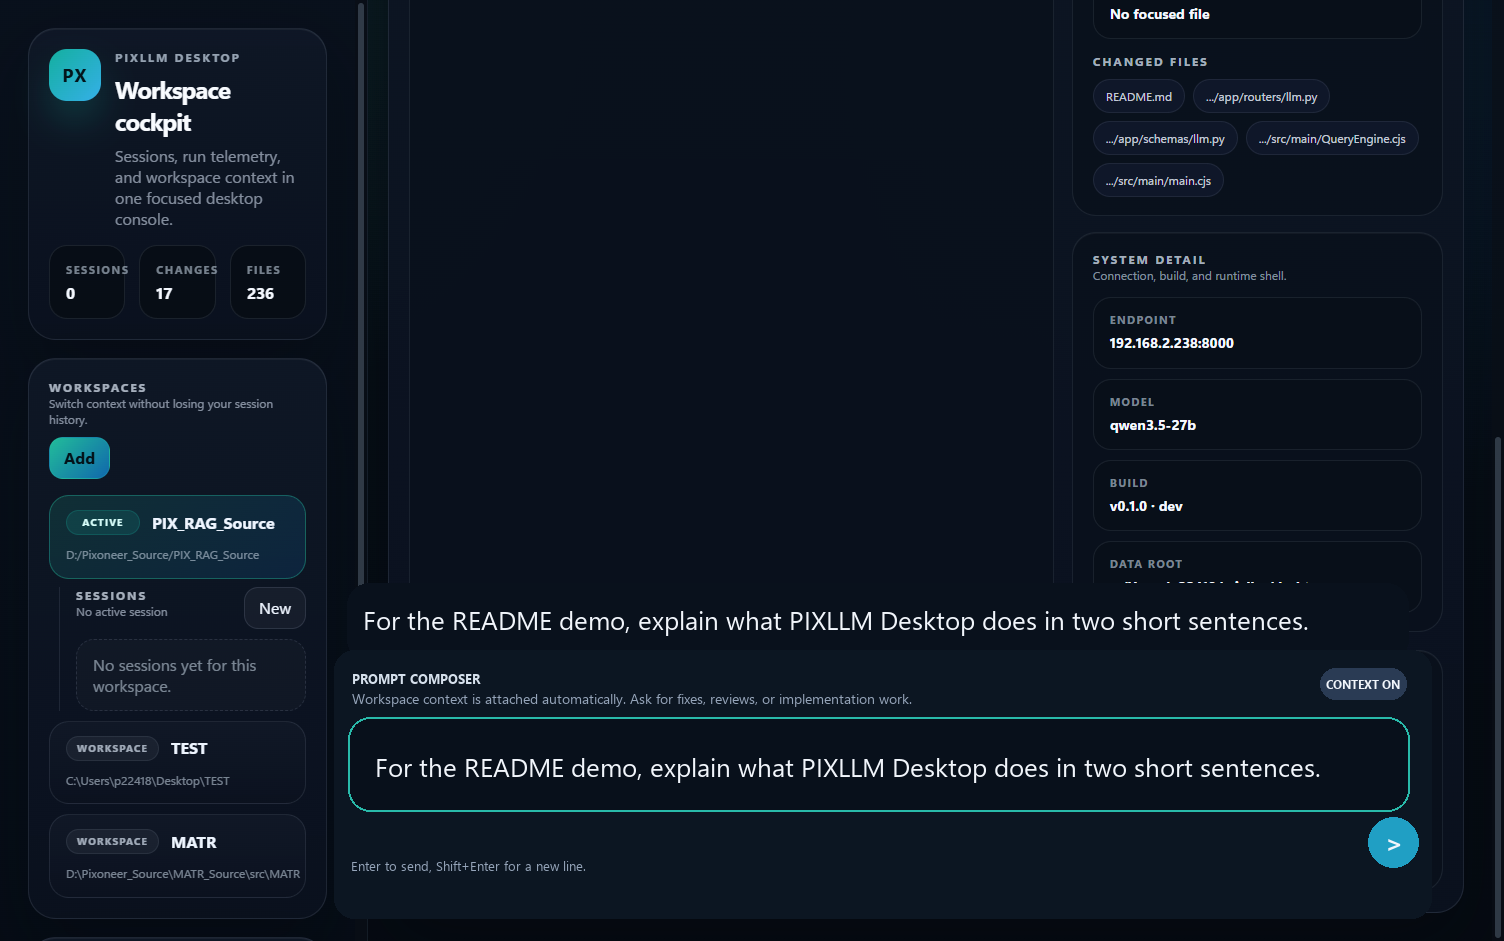
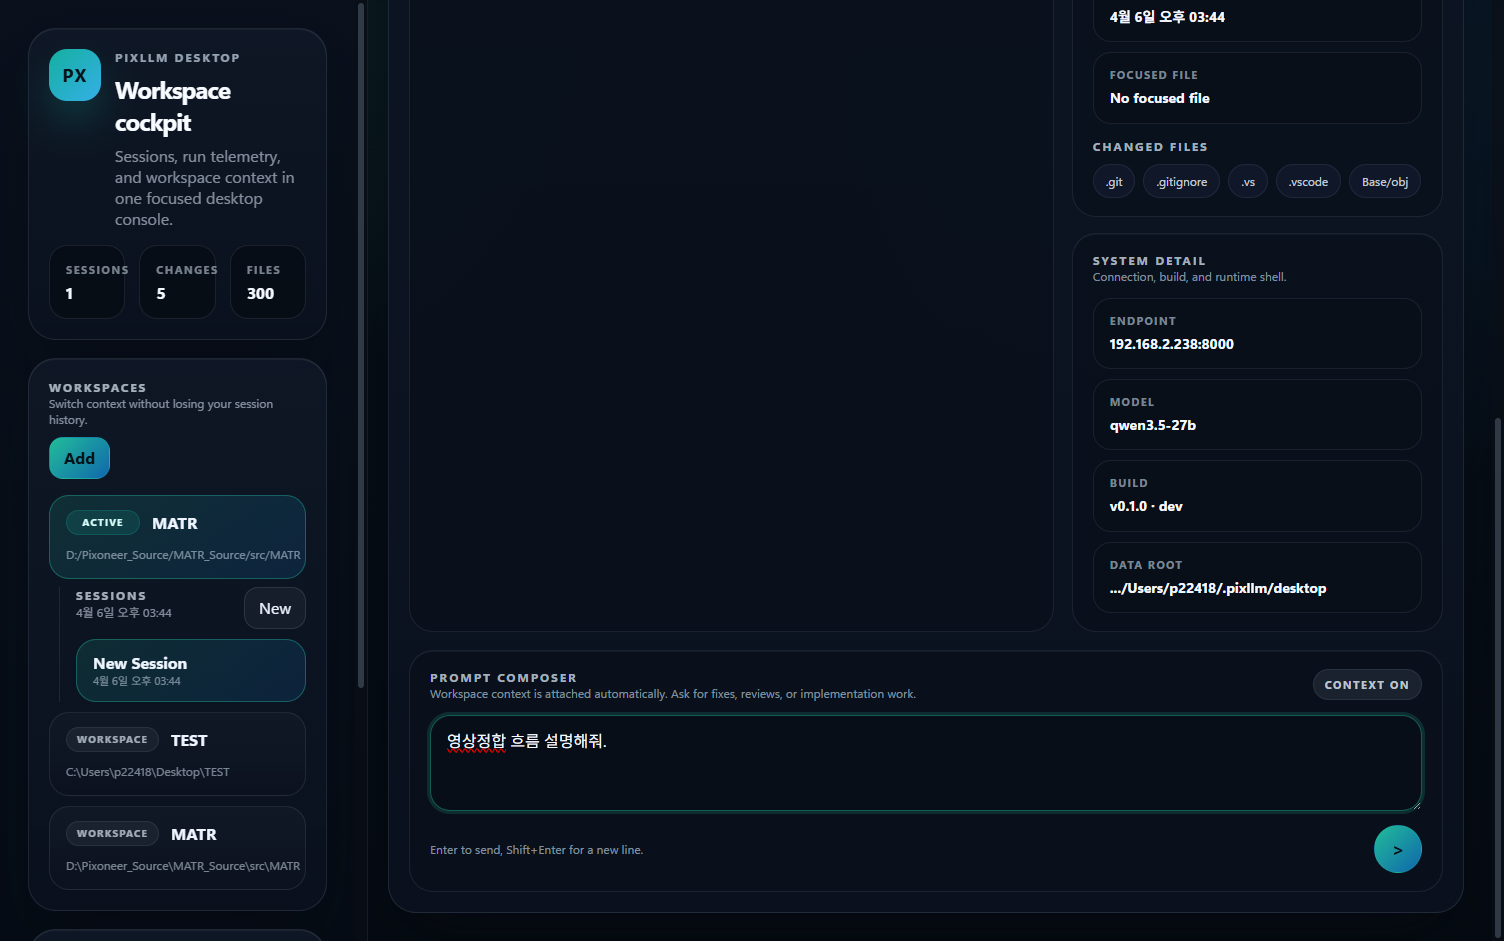
Replace README screenshots with real MATR run

diff --git a/README.md b/README.md
@@ -12,6 +12,8 @@ PIXLLM은 로컬 코드베이스를 기준으로 질문하고, 실행 로그와 
 
 ## 운용 화면
 
+아래 캡처는 `MATR` 워크스페이스에서 `영상정합 흐름 설명해줘.`를 실제로 실행한 화면입니다.
+
 ### 1. 연결과 모델 설정
 
 백엔드 API URL, 토큰, 직접 연결할 LLM 주소, 사용할 채팅 모델을 같은 화면에서 바로 설정할 수 있습니다.
